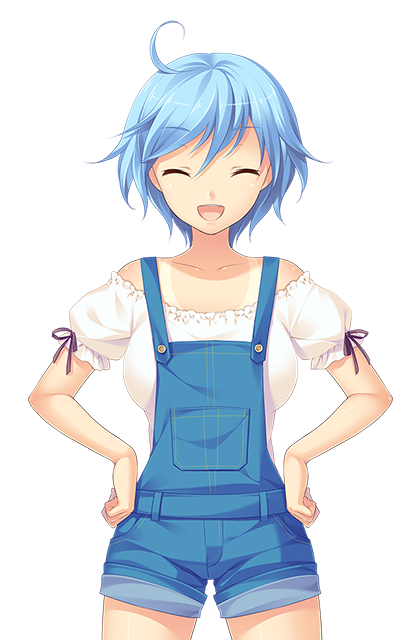
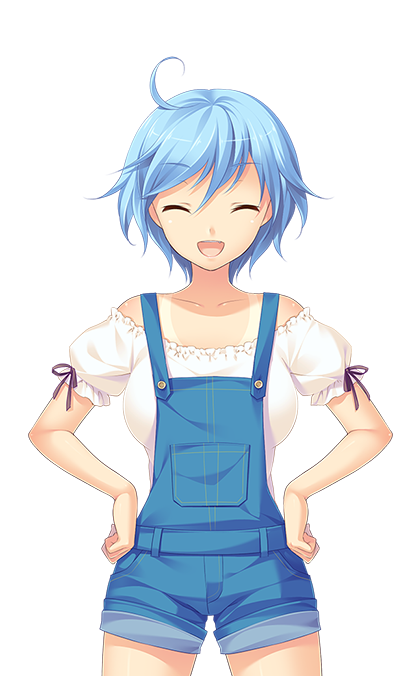
Moved SaveState to appropriate package
Made default volume 0.75 instead of 0
Resized girl.png's canvas

Changed region(s): [[0.0619, 0.0312, 0.9595, 0.9688]]

diff --git a/Assets/Save/Scripts/SaveStateController.cs b/Assets/Save/Scripts/SaveStateController.cs
@@ -32,7 +32,7 @@ public class SaveStateController : MonoBehaviour {
         {
             DontDestroyOnLoad(gameObject); // make the obj stay around forever
             controller = this; // the first created game controller will be the singleton
-                               
+            masterVol = 0.75F;
             LoadPlayerPref(); // loads player preferences at the start
         }
         else if (controller != this)
